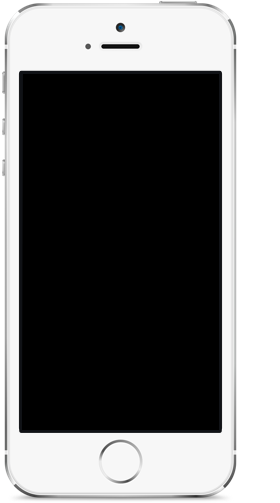
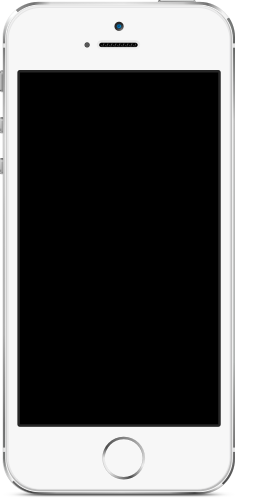
Video / iPhone sizing

Changed region(s): [[0.0, 0.0301, 0.8571, 1.0], [0.5714, 0.0, 0.7714, 0.0301], [0.0571, 0.0, 0.1714, 0.0301]]

diff --git a/static/css/style-studio.css b/static/css/style-studio.css
@@ -304,17 +304,16 @@ img.studio {
 
 #framer .screen {
   position: absolute;
-  top: 74px;
-  left: 22px;
+  top: 73px;
+  left: 20px;
   max-width: 280px;
-  padding-right: 83px;
+  padding-right: 82px;
   overflow: hidden; }
 
 #framer video {
   width: 100%;
   border: none;
-  background: #fff;
-  box-shadow: 0 5px 0 #fff; }
+  background: #fff; }
 
 #framer p a {
   color: #333;

diff --git a/static/css/style-studio.scss b/static/css/style-studio.scss
@@ -339,9 +339,9 @@ img.studio {
 }
 
 #framer .screen {
-	position: absolute; top:74px; left: 22px;
+	position: absolute; top:73px; left: 20px;
 	max-width: 280px;
-	padding-right: 83px;
+	padding-right: 82px;
 	overflow: hidden;
 }
 
@@ -349,7 +349,7 @@ img.studio {
 	width: 100%;
 	border: none;
 	background: #fff;
-	box-shadow: 0 5px 0 #fff;
+
 	
 	
 }
